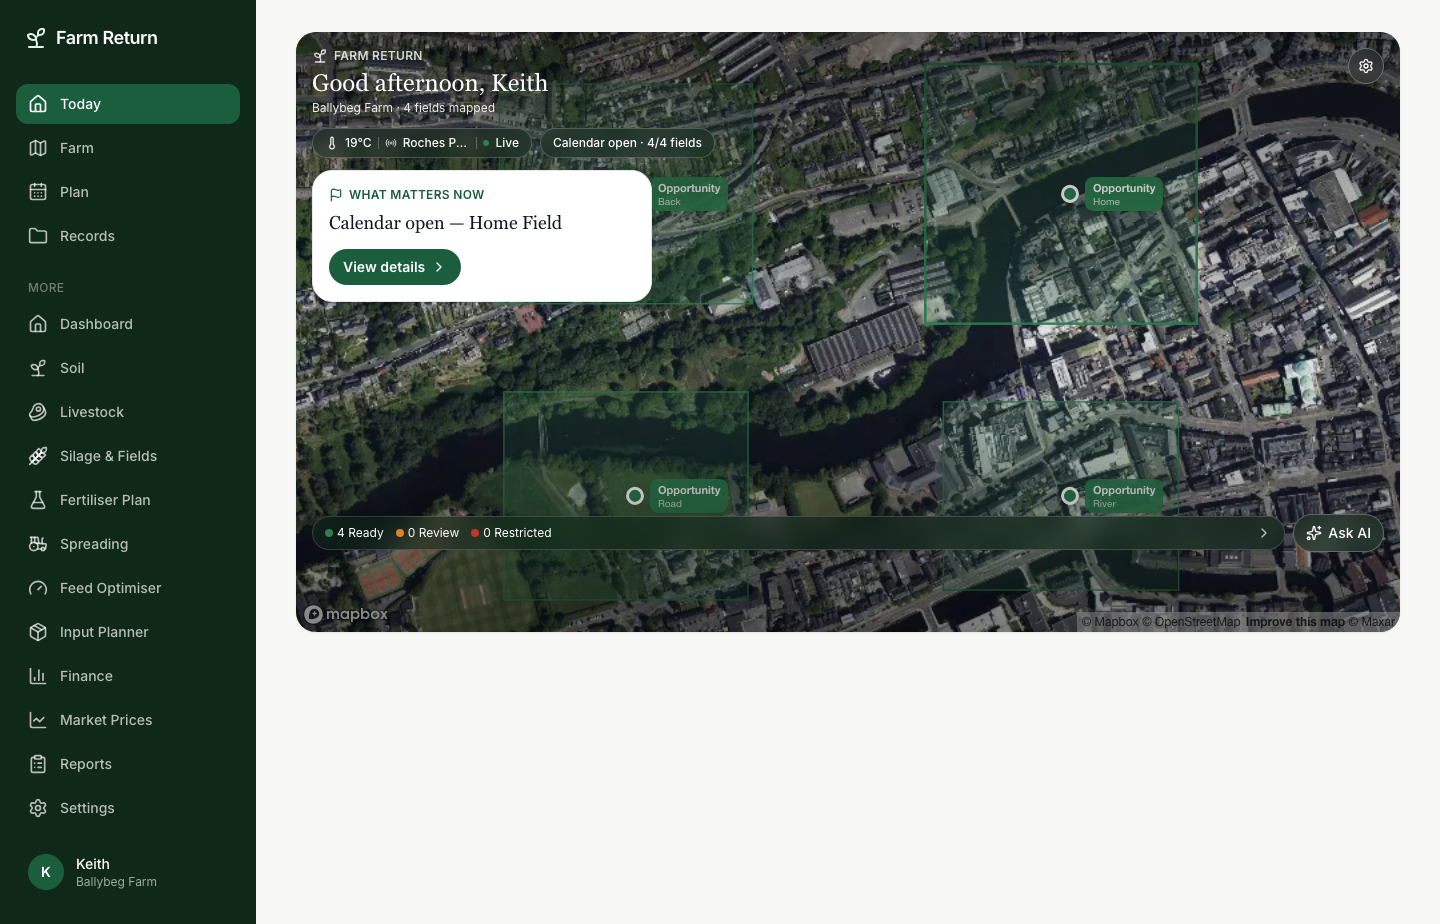
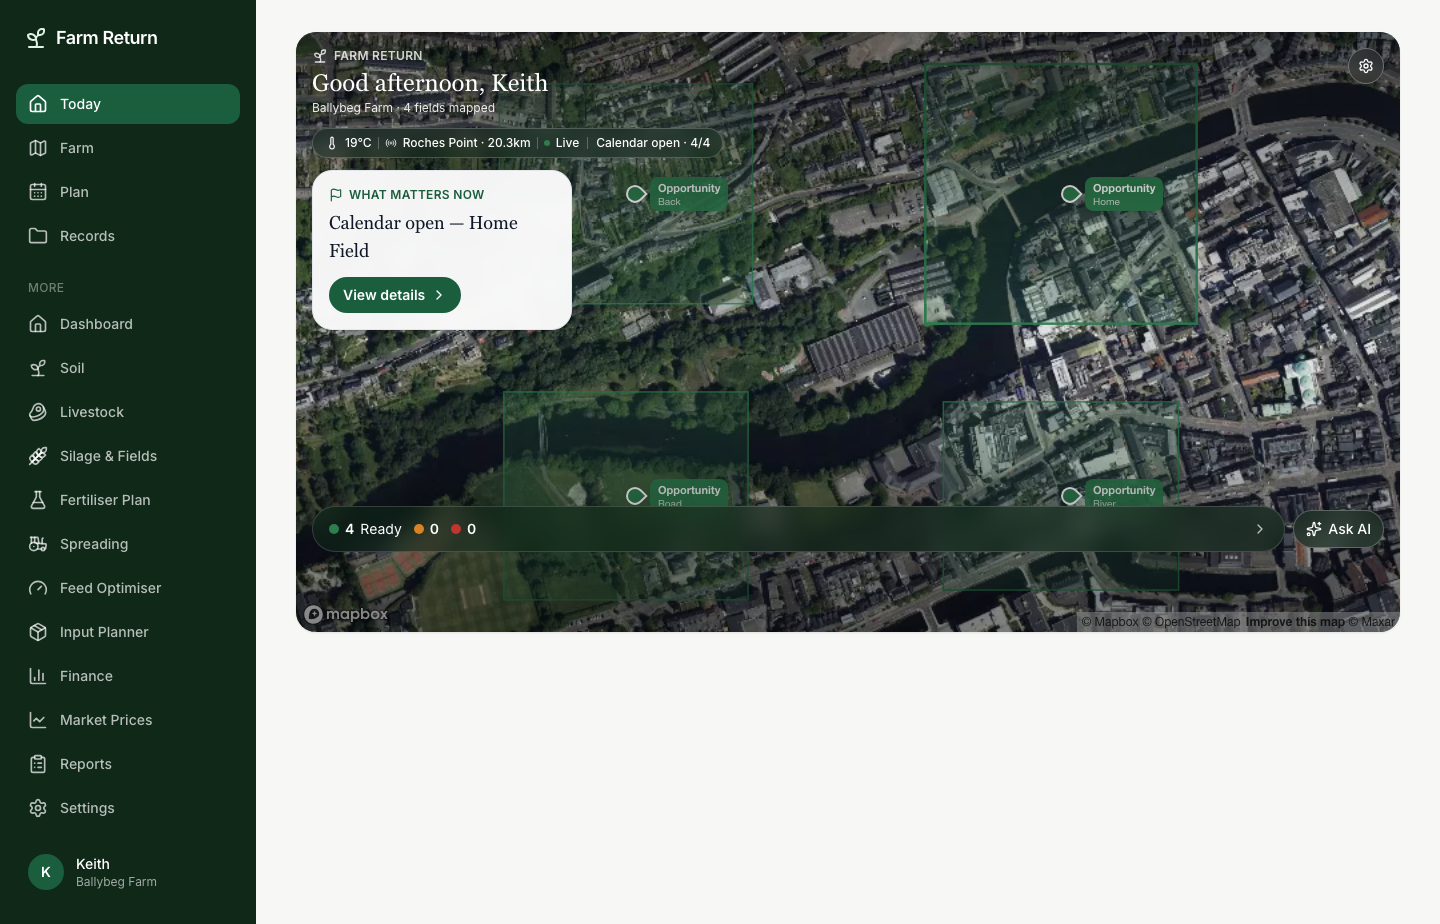
Strict Visual Reproduction round 1: fix Codex composition findings on Today
Codex visual audit round 1 (fidelity 7.8/10, PARTIAL, dashboard drift
LOW — the highest score Today has ever scored):

- High (composition): primary card occupied nearly the full viewport
  width, unlike the reference's narrower card that leaves farm imagery
  visible beside it. Capped to max-w-[260px] (~65% of 390px).
- Medium (composition): field markers were colour-coded dots, not the
  reference's own directional pin silhouette. MapHero now draws a real
  teardrop/pointer pin (the classic rotated-square CSS technique) instead
  of a circle.
- Medium (composition): ambient status was two visually detached pills
  (weather, calendar) rather than the reference's one cohesive strip.
  WeatherHeroChip gained a `bare` mode (content only, no own pill/border)
  so Today can merge both real facts into a single pill with an internal
  divider.
- Low (cosmetic): the opaque white primary card read heavier than the
  reference's integrated overlay feel — now bg-fr-surface/95 +
  backdrop-blur-sm.
- Low (cosmetic): the status-summary strip was compressed/small — bumped
  padding, dot size, and number emphasis; trimmed to numbers + colour
  (full sentence still in aria-label) so it fits beside the real Ask AI
  affordance beside it without clipping, with flex-wrap as a safety net.

Quality gate (test/typecheck/lint/build) green: 116 files / 1509 tests
passing. Today/desktop screenshots recaptured.

Claude-Session: https://claude.ai/code/session_017cs1M5kSyWgGzWDkWLoi48

Changed region(s): [[0.2188, 0.1515, 0.5, 0.3636], [0.4375, 0.5455, 0.9688, 0.6061], [0.2188, 0.5455, 0.4062, 0.6061]]

diff --git a/src/app/(app)/today/page.tsx b/src/app/(app)/today/page.tsx
@@ -235,17 +235,23 @@ export default function TodayPage() {
                 </Link>
               </div>
 
-              {/* Ambient status strip — real weather (WeatherHeroChip)
-                  plus the one other real farm-wide ambient fact this app
-                  has (spreading-calendar openness). No fabricated
+              {/* Ambient status strip — real weather plus the one other
+                  real farm-wide ambient fact this app has (spreading-
+                  calendar openness), merged into one cohesive pill
+                  (Codex audit round 1, Strict Visual Reproduction: two
+                  detached pills read as split rather than the
+                  reference's own single ambient strip). No fabricated
                   "ground conditions"/"crop status" segment — see this
                   file's own header comment. */}
-              <div className="flex flex-wrap items-center gap-2">
-                <WeatherHeroChip centroid={farm.location.centroid} />
+              <div className="flex max-w-fit items-center gap-2 rounded-full border border-white/20 bg-fr-green-900/45 px-3 py-1.5 backdrop-blur-sm">
+                <WeatherHeroChip centroid={farm.location.centroid} bare />
                 {mounted && spreadingPrompts.length > 0 ? (
-                  <span className="flex items-center gap-1.5 rounded-full border border-white/20 bg-fr-green-900/45 px-3 py-1.5 text-xs font-medium text-white backdrop-blur-sm">
-                    Calendar open · {calendarOpenCount}/{spreadingPrompts.length} fields
-                  </span>
+                  <>
+                    <span className="h-3 w-px shrink-0 bg-white/25" />
+                    <span className="whitespace-nowrap text-xs font-medium text-white">
+                      Calendar open · {calendarOpenCount}/{spreadingPrompts.length}
+                    </span>
+                  </>
                 ) : null}
               </div>
 
@@ -253,7 +259,7 @@ export default function TodayPage() {
                   card sits directly below the ambient strip, near the
                   top of the screen, not anchored to the bottom. */}
               {!mounted ? (
-                <div className="animate-pulse rounded-fr-card bg-fr-surface p-5 shadow-fr-card max-w-[340px]">
+                <div className="animate-pulse rounded-fr-card bg-fr-surface p-5 shadow-fr-card max-w-[260px]">
                   <div className="h-5 w-40 rounded bg-fr-surface-alt" />
                   <div className="mt-3 h-4 w-full rounded bg-fr-surface-alt" />
                 </div>
@@ -262,10 +268,16 @@ export default function TodayPage() {
                   prompt={primaryPrompt}
                   onViewDetails={() => setOpenPrompt(primaryPrompt)}
                   variant="light"
-                  className="max-w-[340px]"
+                  // Codex audit round 1 (Strict Visual Reproduction):
+                  // opaque white read as heavier/brighter than the
+                  // reference's own integrated-with-the-photo overlay
+                  // feel — a touch of real transparency + blur keeps it
+                  // legible while it still reads as part of the same
+                  // surface as everything else floating on the photo.
+                  className="max-w-[260px] bg-fr-surface/95 backdrop-blur-sm"
                 />
               ) : (
-                <div className="rounded-fr-card border border-fr-border bg-fr-surface p-5 shadow-fr-card max-w-[340px]">
+                <div className="rounded-fr-card border border-fr-border bg-fr-surface p-5 shadow-fr-card max-w-[260px]">
                   <p className="text-sm text-fr-ink-600">
                     {fields.length === 0
                       ? "Map a field to start seeing real Prompts here."
@@ -281,25 +293,26 @@ export default function TodayPage() {
             <div className="flex flex-col gap-2">
               <NearbyFieldCard fields={fields} position={position} onOpen={(fieldId) => router.push(`/fields?field=${fieldId}`)} />
 
-              <div className="flex items-center gap-2">
+              <div className="flex flex-wrap items-center gap-2">
                 {mounted && mappedFields.length > 0 ? (
                   <button
                     type="button"
                     onClick={() => setSecondaryOpen(true)}
-                    className="flex min-w-0 flex-1 items-center justify-between gap-2 rounded-full border border-white/15 bg-fr-green-900/55 px-3 py-2 text-white backdrop-blur-md"
+                    aria-label={`${readyCount} fields ready, ${reviewCount} to review, ${restrictedCount} restricted — see details`}
+                    className="flex min-w-0 flex-1 items-center justify-between gap-2 rounded-full border border-white/15 bg-fr-green-900/55 px-4 py-3 text-white backdrop-blur-md"
                   >
-                    <span className="flex items-center gap-3">
-                      <span className="flex items-center gap-1 text-xs">
-                        <span className="size-2 rounded-full bg-fr-good" />
-                        {readyCount} Ready
+                    <span className="flex items-center gap-3" aria-hidden="true">
+                      <span className="flex items-center gap-1.5 text-sm">
+                        <span className="size-2.5 rounded-full bg-fr-good" />
+                        <span className="font-semibold">{readyCount}</span> Ready
                       </span>
-                      <span className="flex items-center gap-1 text-xs">
-                        <span className="size-2 rounded-full bg-fr-attention" />
-                        {reviewCount} Review
+                      <span className="flex items-center gap-1.5 text-sm">
+                        <span className="size-2.5 rounded-full bg-fr-attention" />
+                        <span className="font-semibold">{reviewCount}</span>
                       </span>
-                      <span className="flex items-center gap-1 text-xs">
-                        <span className="size-2 rounded-full bg-fr-risk" />
-                        {restrictedCount} Restricted
+                      <span className="flex items-center gap-1.5 text-sm">
+                        <span className="size-2.5 rounded-full bg-fr-risk" />
+                        <span className="font-semibold">{restrictedCount}</span>
                       </span>
                     </span>
                     <ChevronRight className="size-4 shrink-0 text-white/70" />

diff --git a/src/components/farm/WeatherHeroChip.tsx b/src/components/farm/WeatherHeroChip.tsx
@@ -49,7 +49,19 @@ const toneDot: Record<StatusTone, string> = {
  * `aria-label` on the whole chip carries the complete sentence for
  * assistive tech that a screen-reader user can query without a hover.
  */
-export function WeatherHeroChip({ centroid }: { centroid: [number, number] }) {
+export function WeatherHeroChip({
+  centroid,
+  bare = false,
+}: {
+  centroid: [number, number];
+  /** Strict Visual Reproduction phase: renders just the inner content
+   * (temp/station/freshness), no outer pill/border/background — so a
+   * caller can merge this into one cohesive ambient strip alongside
+   * another real fact (e.g. Today's spreading-calendar summary),
+   * matching media/image2.png's own single multi-segment ambient strip
+   * instead of two visually detached pills. */
+  bare?: boolean;
+}) {
   const [data, setData] = useState<WeatherApiResponse | null>(null);
 
   useEffect(() => {
@@ -78,7 +90,10 @@ export function WeatherHeroChip({ centroid }: { centroid: [number, number] }) {
 
   return (
     <span
-      className="flex min-w-0 max-w-[220px] items-center gap-1.5 rounded-full border border-white/20 bg-fr-green-900/45 px-3 py-1.5 text-xs font-medium text-white backdrop-blur-sm"
+      className={cn(
+        "flex min-w-0 items-center gap-1.5 text-xs font-medium text-white",
+        !bare && "max-w-[220px] rounded-full border border-white/20 bg-fr-green-900/45 px-3 py-1.5 backdrop-blur-sm",
+      )}
       aria-label={`${tempText}${stationText ? `, ${stationText} station` : ""}, ${freshness.toLowerCase()}`}
     >
       <Thermometer className="size-3.5 shrink-0" aria-hidden="true" />

diff --git a/src/components/farm/MapHero.tsx b/src/components/farm/MapHero.tsx
@@ -339,10 +339,19 @@ export function MapHero({
       el.className = "flex items-center gap-1.5 transition-transform";
       if (selected) el.style.transform = "scale(1.15)";
 
-      const dot = document.createElement("span");
-      dot.className = "block size-[18px] shrink-0 rounded-full border-[3px] border-white shadow-md";
-      dot.style.backgroundColor = toneBg[tone];
-      el.appendChild(dot);
+      // Codex audit round 1 (Strict Visual Reproduction): "field markers
+      // use small circular dots... they read more like map captions than
+      // anchored places" — a real teardrop/pointer silhouette (the
+      // classic rotated-square CSS pin) instead of a plain circle, its
+      // own point aligned to the marker's anchor edge.
+      const pin = document.createElement("span");
+      pin.className = "relative block size-[18px] shrink-0";
+      const pinShape = document.createElement("span");
+      pinShape.className = "absolute inset-0 rounded-tl-full rounded-tr-full rounded-bl-full border-[2px] border-white shadow-md";
+      pinShape.style.backgroundColor = toneBg[tone];
+      pinShape.style.transform = "rotate(-45deg)";
+      pin.appendChild(pinShape);
+      el.appendChild(pin);
 
       const label = document.createElement("span");
       label.className = cn(
